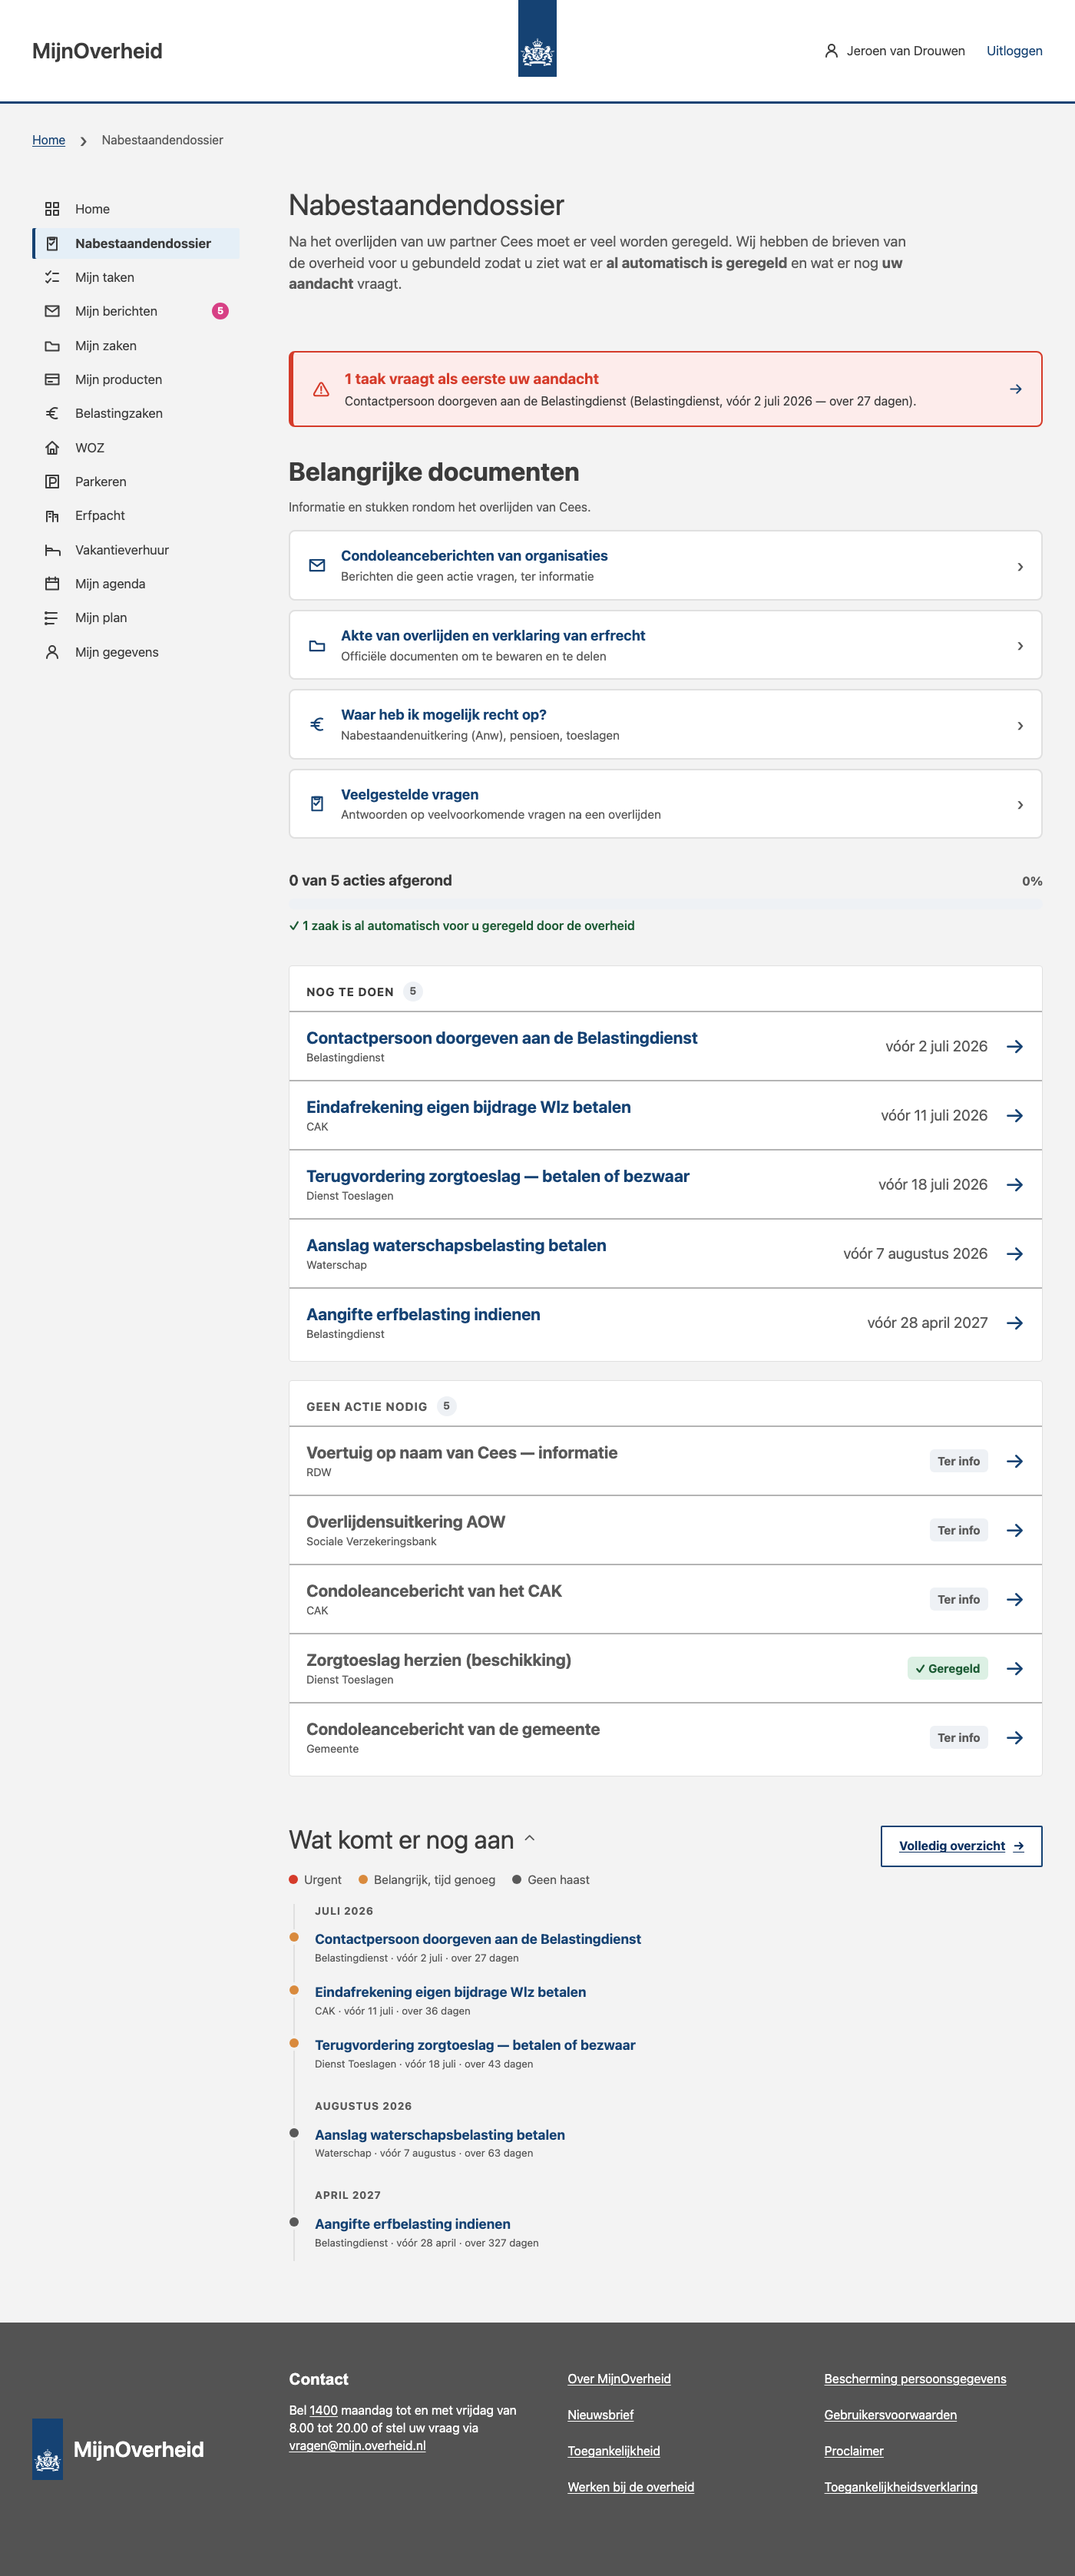
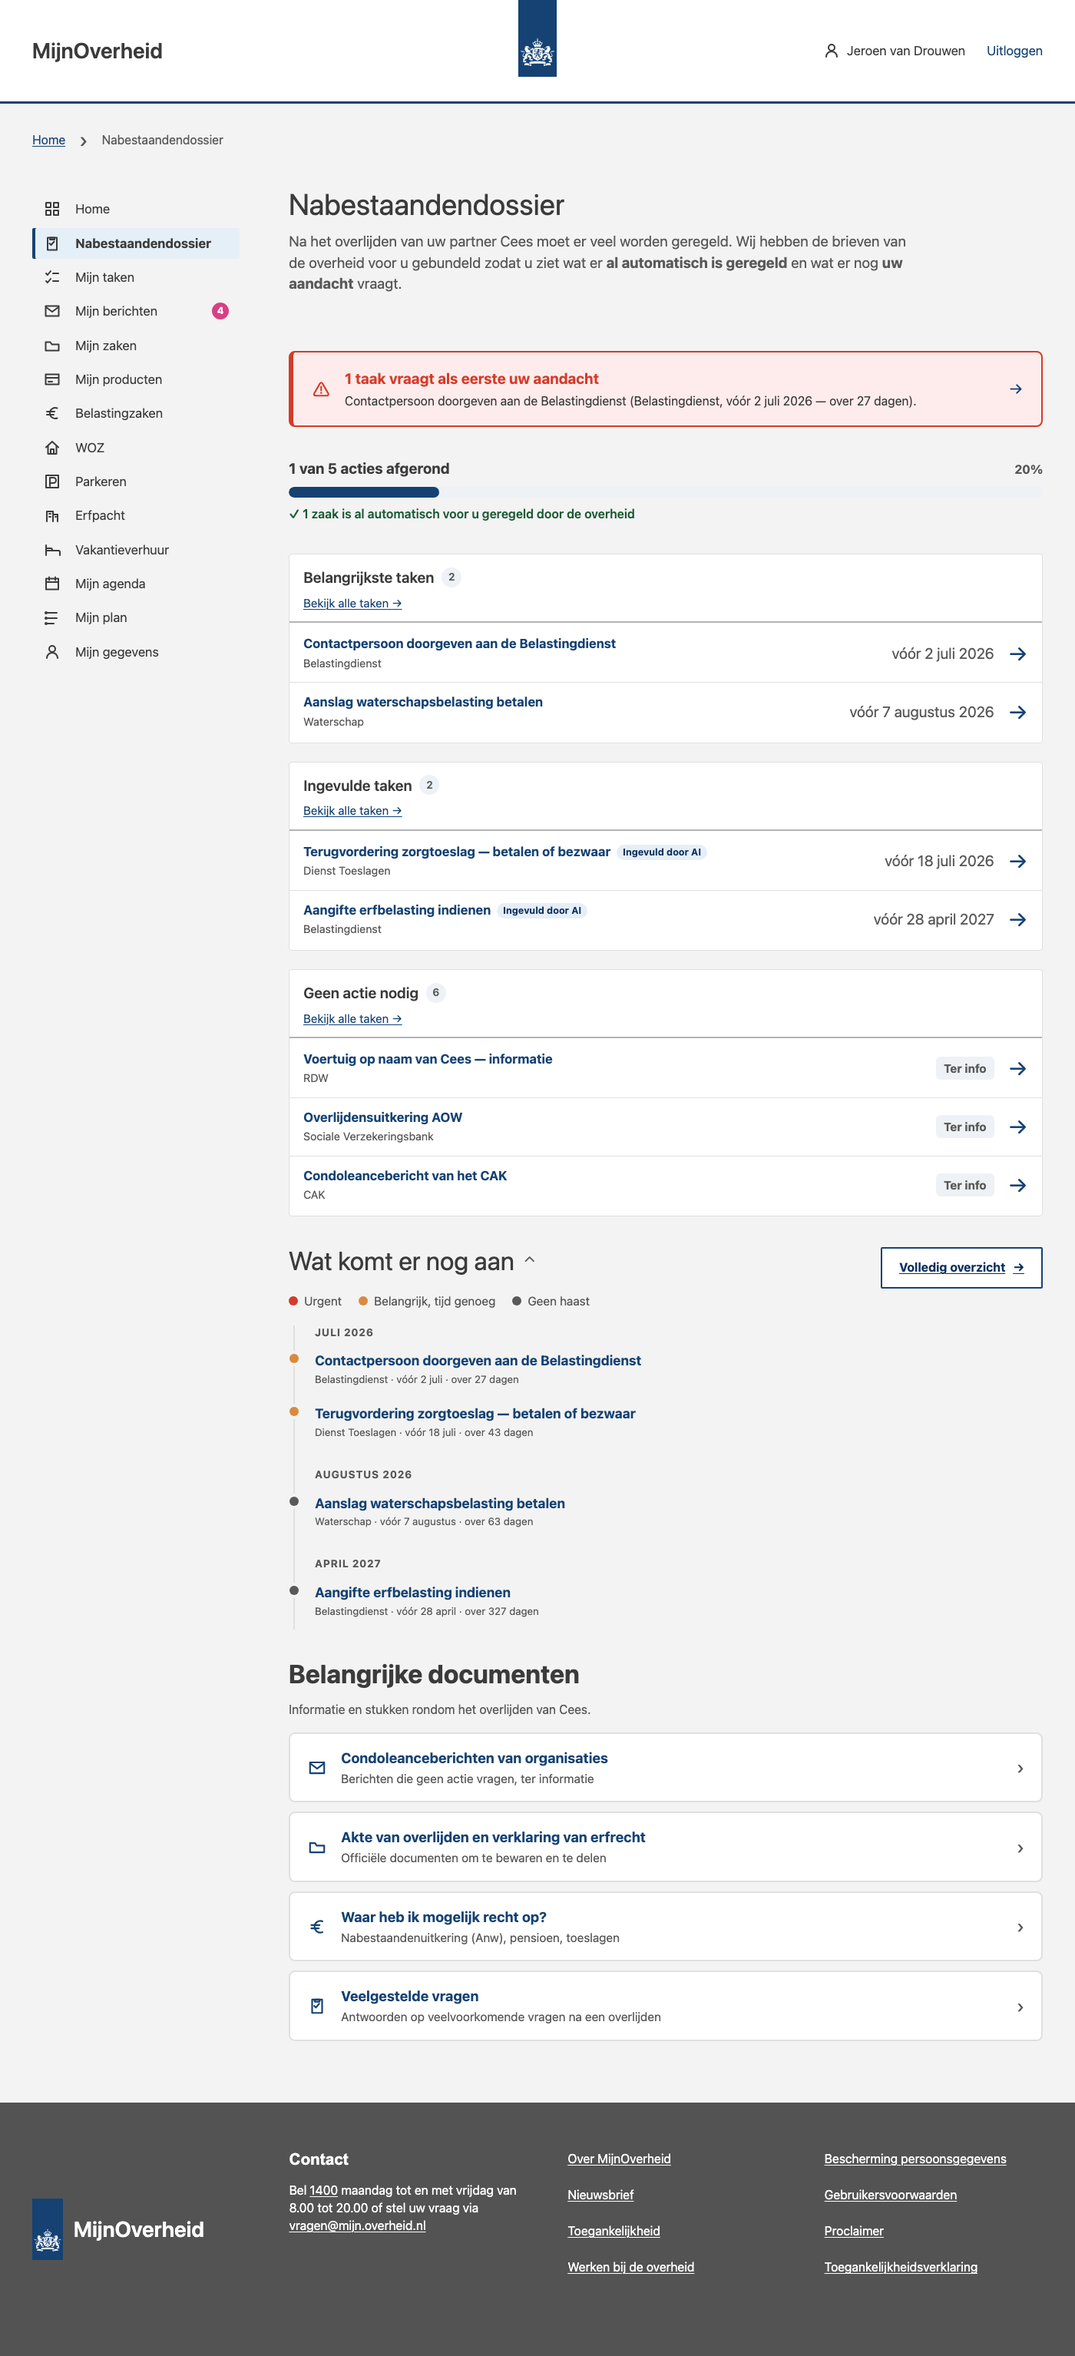
MijnTaken Open/Afgerond-tabs, Belangrijkste/Ingevuld disjunct, documenten onderaan, README+screenshots
- MijnTaken: status als tabs (Open taken / Afgerond) i.p.v. pills; categoriefilters als pills daaronder, plus zoekbalk.
- 'Belangrijkste' = urgente acties die de burger zelf moet doen (niet AI-ingevuld); 'Ingevuld door AI' is nu een aparte, niet-overlappende set. Demodata aangepast.
- 'Belangrijke documenten' verplaatst naar de onderkant van het Nabestaandendossier.
- README bijgewerkt (drie overzichten + Mijn taken-bullet) en screenshots ververst: nieuwe dossier.png + taken.png.

diff --git a/mijnservices-demo-app/app.js b/mijnservices-demo-app/app.js
@@ -805,22 +805,26 @@ function renderInformationForm() {
   `;
 }
 
-function renderTasks(filter = "alle") {
+function renderTasks(view = "alle") {
   ensurePlanLoaded();
   const source = planSource();
   const loading = planApiEnabled() && planFetchState === "loading" && !source.length;
 
-  // De filters zijn de drie dossier-categorieën + "Alle taken" + "Afgerond".
-  // De preview-boxen op het dossier linken hierheen via #taken/<filter>.
-  const filters = [
-    { key: "alle", label: "Alle taken", match: () => true },
+  // Status als tabs: Open taken vs Afgerond.
+  const openTasks = source.filter((t) => t.status !== "afgerond");
+  const afgerondTasks = source.filter(taakAfgerond);
+  const isAfgerondTab = view === "afgerond";
+
+  // Categorie-pills (alleen binnen "Open taken"). De preview-boxen op het
+  // dossier linken hierheen via #taken/<pill>.
+  const pills = [
+    { key: "alle", label: "Alle", match: () => true },
     { key: "belangrijkste", label: "Belangrijkste", match: taakBelangrijkste },
     { key: "ingevuld", label: "Ingevuld door AI", match: taakIngevuld },
     { key: "geen-actie", label: "Geen actie nodig", match: taakGeenActie },
-    { key: "afgerond", label: "Afgerond", match: taakAfgerond },
   ];
-  const active = filters.find((f) => f.key === filter) ?? filters[0];
-  const base = source.filter(active.match);
+  const activePill = isAfgerondTab ? null : pills.find((p) => p.key === view) ?? pills[0];
+  const base = isAfgerondTab ? afgerondTasks : openTasks.filter(activePill.match);
 
   // Lijst voor een zoekterm (titel + organisatie), gesorteerd op urgentie.
   const listHtml = (query) => {
@@ -833,26 +837,34 @@ function renderTasks(filter = "alle") {
       : `<p class="empty-line">Geen taken gevonden.</p>`;
   };
 
-  const chips = `
-    <div class="task-filter-bar" aria-label="Filter taken">
-      ${filters
-        .map((f) => {
-          const count = source.filter(f.match).length;
-          const href = f.key === "alle" ? "#taken" : `#taken/${f.key}`;
-          return `<a class="task-filter${f.key === active.key ? " is-active" : ""}" href="${href}">${escapeHtml(f.label)} <span class="task-filter-count">${count}</span></a>`;
-        })
-        .join("")}
+  const tabs = `
+    <div class="task-tabs">
+      <a class="task-tab${isAfgerondTab ? "" : " is-active"}" href="#taken">Open taken <span class="task-tab-count">${openTasks.length}</span></a>
+      <a class="task-tab${isAfgerondTab ? " is-active" : ""}" href="#taken/afgerond">Afgerond <span class="task-tab-count">${afgerondTasks.length}</span></a>
     </div>`;
+
+  const pillBar = isAfgerondTab
+    ? ""
+    : `<div class="task-filter-bar" aria-label="Filter open taken">
+        ${pills
+          .map((p) => {
+            const count = openTasks.filter(p.match).length;
+            const href = p.key === "alle" ? "#taken" : `#taken/${p.key}`;
+            return `<a class="task-filter${p.key === activePill.key ? " is-active" : ""}" href="${href}">${escapeHtml(p.label)} <span class="task-filter-count">${count}</span></a>`;
+          })
+          .join("")}
+      </div>`;
 
   app.innerHTML = `
     <h1>Mijn taken</h1>
-    <p class="page-subtitle">Alle taken en brieven uit uw nabestaandendossier. Filter op categorie of zoek.</p>
+    <p class="page-subtitle">Alle taken en brieven uit uw nabestaandendossier.</p>
+    ${tabs}
     <form class="search-row" data-taken-search role="search">
       <label class="sr-only" for="taken-zoek">Zoeken in taken</label>
       <input id="taken-zoek" name="q" autocomplete="off" placeholder="Zoek in taken…" />
       <button class="secondary-button" type="submit"><svg class="icon" aria-hidden="true"><use href="#icon-search"></use></svg>Zoeken</button>
     </form>
-    ${chips}
+    ${pillBar}
     <div id="taken-list">${loading ? `<p class="empty-line">Taken laden…</p>` : listHtml("")}</div>
   `;
 
@@ -1618,12 +1630,13 @@ function taakHeeftLabel(task, label) {
   return taakLabels(task).includes(label);
 }
 
-// De drie weergaven, gedeeld door het dossier-overzicht en "Mijn taken":
-//  - belangrijkste: openstaande acties (kortste deadline eerst)
-//  - ingevuld:      taken met het label "ingevuld"
+// De weergaven, gedeeld door het dossier-overzicht en "Mijn taken":
+//  - belangrijkste: openstaande acties die de burger zélf moet oppakken
+//                   (níet AI-ingevuld), kortste deadline eerst
+//  - ingevuld:      taken met het label "ingevuld" (AI heeft ze voorbereid)
 //  - geen actie:    afgerond of niet-actie (ter info / automatisch geregeld)
 function taakBelangrijkste(task) {
-  return planActionable(task) && task.status !== "afgerond";
+  return planActionable(task) && task.status !== "afgerond" && !taakHeeftLabel(task, "ingevuld");
 }
 function taakIngevuld(task) {
   return taakHeeftLabel(task, "ingevuld");
@@ -2039,8 +2052,6 @@ function renderPlannen() {
 
       ${featured}
 
-      ${docs}
-
       <section class="plannen-progress" aria-label="Voortgang">
         <div class="plannen-progress-head">
           <strong>${doneActions} van ${totalActions} acties afgerond</strong>
@@ -2053,6 +2064,8 @@ function renderPlannen() {
       <section>${body}</section>
 
       ${timeline}
+
+      ${docs}
     </article>
   `;
 }

diff --git a/mijnservices-demo-app/styles.css b/mijnservices-demo-app/styles.css
@@ -2280,6 +2280,54 @@ h3 {
   vertical-align: middle;
 }
 
+/* --- Mijn taken: status-tabs (Open / Afgerond) --------------------------- */
+.task-tabs {
+  display: flex;
+  gap: 30px;
+  width: min(100%, 1120px);
+  margin: 0 0 22px;
+  border-bottom: 1px solid var(--color-border);
+}
+
+.task-tab {
+  display: inline-flex;
+  align-items: center;
+  gap: 8px;
+  margin-bottom: -1px;
+  padding: 10px 2px;
+  border-bottom: 3px solid transparent;
+  color: var(--color-muted);
+  text-decoration: none;
+  font-size: 1.1rem;
+  font-weight: 700;
+}
+
+.task-tab:hover {
+  color: var(--color-ink);
+}
+
+.task-tab.is-active {
+  color: var(--color-purple);
+  border-bottom-color: var(--color-purple);
+}
+
+.task-tab-count {
+  display: inline-grid;
+  place-items: center;
+  min-width: 24px;
+  height: 24px;
+  padding: 0 7px;
+  border-radius: 999px;
+  background: var(--color-neutral);
+  color: var(--color-muted);
+  font-size: 0.85rem;
+}
+
+.task-tab.is-active .task-tab-count {
+  background: var(--color-purple-soft);
+  color: var(--color-purple-dark);
+}
+
 /* --- Mijn taken: filterbalk (categorie/label) ---------------------------- */
 .task-filter-bar {
   display: flex;

diff --git a/mijnservices-demo-app/readme.md b/mijnservices-demo-app/readme.md
@@ -17,15 +17,20 @@ de overheid die losse poststroom kan bundelen tot **één overzicht** waarin de 
 **🔗 Live demo:** **https://t-1sk9qbdw.tunn.dev/#plannen**
 _(draait via een tunnel naar mijn laptop — kan tijdelijk offline zijn)_
 
-![Het Nabestaandendossier: nog te doen en geen actie nodig](screenshots/dossier.png)
+![Het Nabestaandendossier: uitgelichte taak, drie taken-overzichten, tijdlijn en documenten](screenshots/dossier.png)
 
 ## In deze demo
 
-- **Nabestaandendossier** — een nieuwe pagina met een overzicht van **taken en brieven**, gesplitst in
-  _Nog te doen_ en _Geen actie nodig_, gesorteerd op urgentie, met een voortgangsindicator en de
-  geruststelling "X zaken zijn al automatisch geregeld". Bovenaan een **uitgelichte taak** (de actie
-  met de kortste deadline), een accordion met **belangrijke documenten** (condoleanceberichten,
-  akte/erfrecht, mogelijke rechten, FAQ) en een **"wat komt er nog aan"-tijdlijn** per maand.
+- **Nabestaandendossier** — één pagina die de poststroom bundelt: bovenaan een **uitgelichte taak**
+  (kortste deadline) en de voortgang, daaronder **drie overzichten** die elk een filter op álle taken
+  zijn (max 3 getoond, met "Bekijk alle taken"): **Belangrijkste** (urgente acties die u zelf moet
+  doen), **Ingevuld door AI** (taken die de assistent al heeft voorbereid) en **Geen actie nodig**
+  (ter info of afgerond). Verder een **"wat komt er nog aan"-tijdlijn** per maand en onderaan een
+  accordion met **belangrijke documenten** (condoleanceberichten, akte/erfrecht, mogelijke rechten, FAQ).
+- **Mijn taken** — alle taken met **tabs** (_Open taken_ / _Afgerond_), **categoriefilters**
+  (Belangrijkste / Ingevuld door AI / Geen actie nodig) en een **zoekbalk**. Taken dragen **labels**
+  (bv. `nabestaandendossier`, `ingevuld`) waarop gefilterd kan worden — zo is zichtbaar wat een AI al
+  heeft ingevuld.
 - **Briefdetail** — elke brief is klikbaar: afzender, aanhef, aan wie gericht, op welk adres, wat er
   gevraagd wordt + een knop naar de afhandeling. Het signaleert de adresserings-pijnpunten uit de
   challenge (gericht aan _"de erven"_, bezorgd op het verzorgingstehuis-adres).
@@ -40,6 +45,10 @@ _(draait via een tunnel naar mijn laptop — kan tijdelijk offline zijn)_
   donkerblauw palet, RO Sans, witte content-panelen), aansluitend op MijnOverheid en het NL Design
   System. (De Rijkshuisstijl-fonts en het lint-logo zijn voorbehouden aan officiële Rijksoverheids-
   communicatie; dit is een prototype.)
+
+**Mijn taken** — tabs, filters, labels en zoeken:
+
+![Mijn taken met tabs, filters en zoekbalk](screenshots/taken.png)
 
 | Briefdetail (met pijnpunt-signalering)       | Mijn berichten                               |
 | -------------------------------------------- | -------------------------------------------- |
